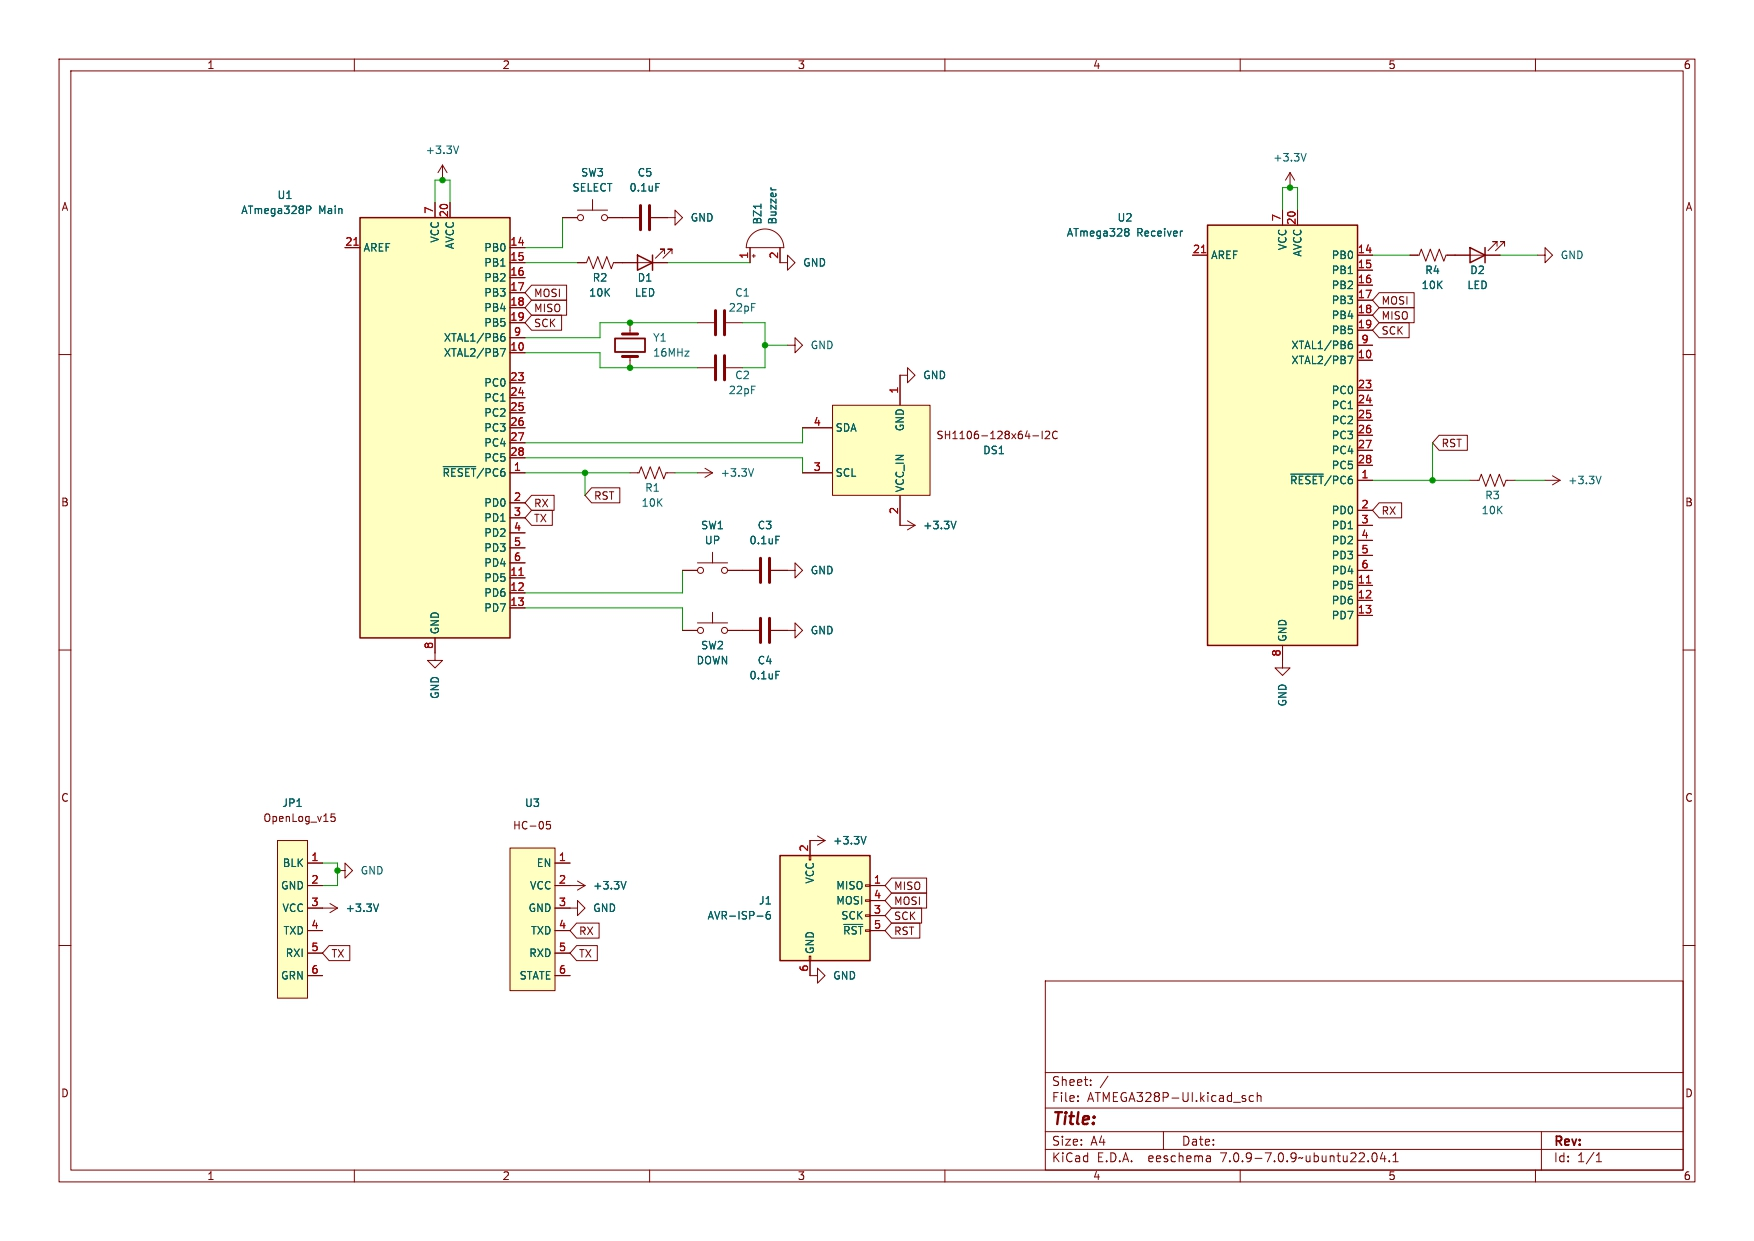
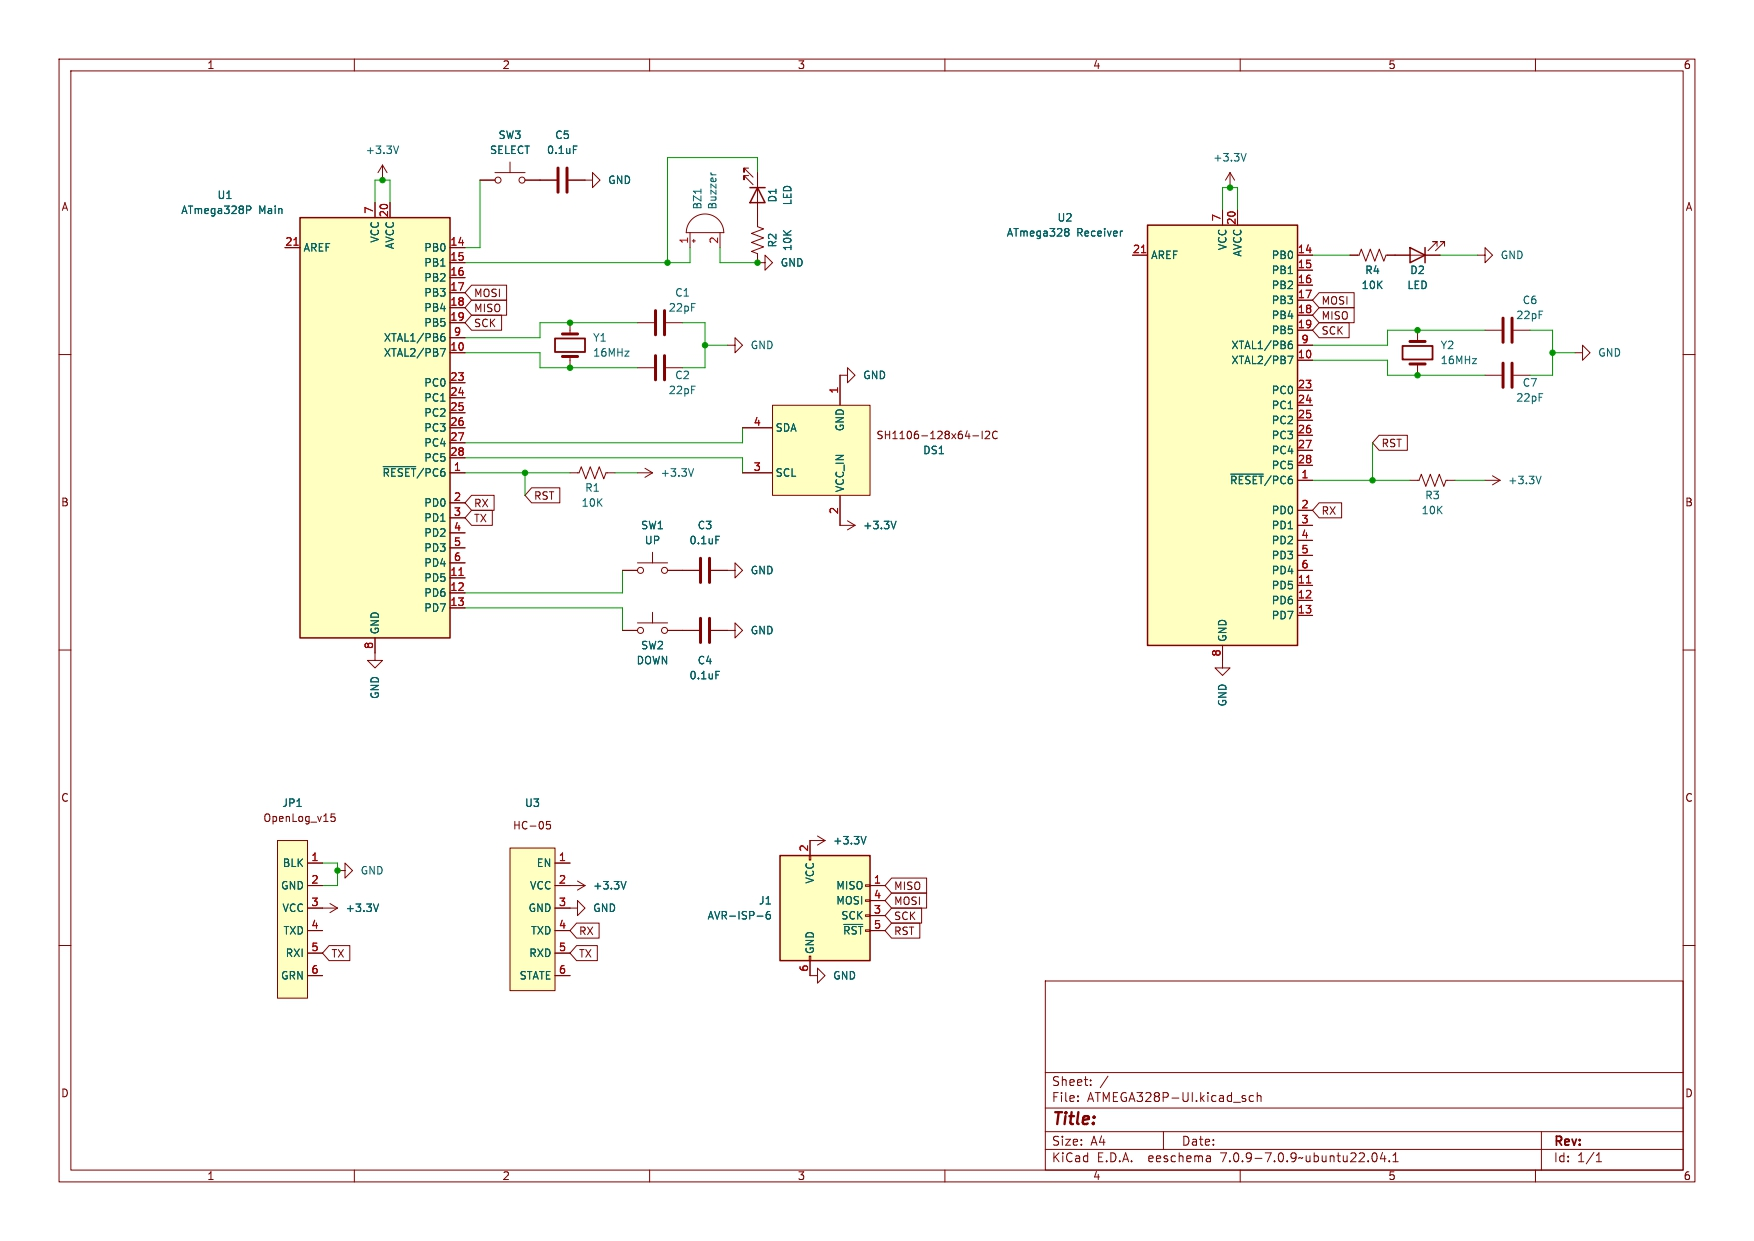
final revised schematic and corrected typos in README

Changed region(s): [[0.1231, 0.0919, 0.5849, 0.5205], [0.5849, 0.1225, 0.9236, 0.5205], [0.3694, 0.4287, 0.4618, 0.5512]]

diff --git a/README.md b/README.md
@@ -28,7 +28,7 @@ Upon every selection, a logger hooked up to the main boards UART pins receive wh
 * Kingston Canvas Select Plus MicroSDHC 32 GB
 * 16 MHz crystal oscillator - x2
 * 10K ohm resistors - x4
-* 22pF capacitor - x4
+* 22pF capacitor - x4 
 * Blue LED - x2
 
 #### Main board
@@ -41,8 +41,6 @@ Upon every selection, a logger hooked up to the main boards UART pins receive wh
 
 #### Receiver 
 * ATMega328
-* SH1106 128x64 I2C OLED
-* 16 MHz crystal oscillator
 
 ### Software Resources:
 * [avr-libc](https://www.nongnu.org/avr-libc/user-manual/modules.html)
